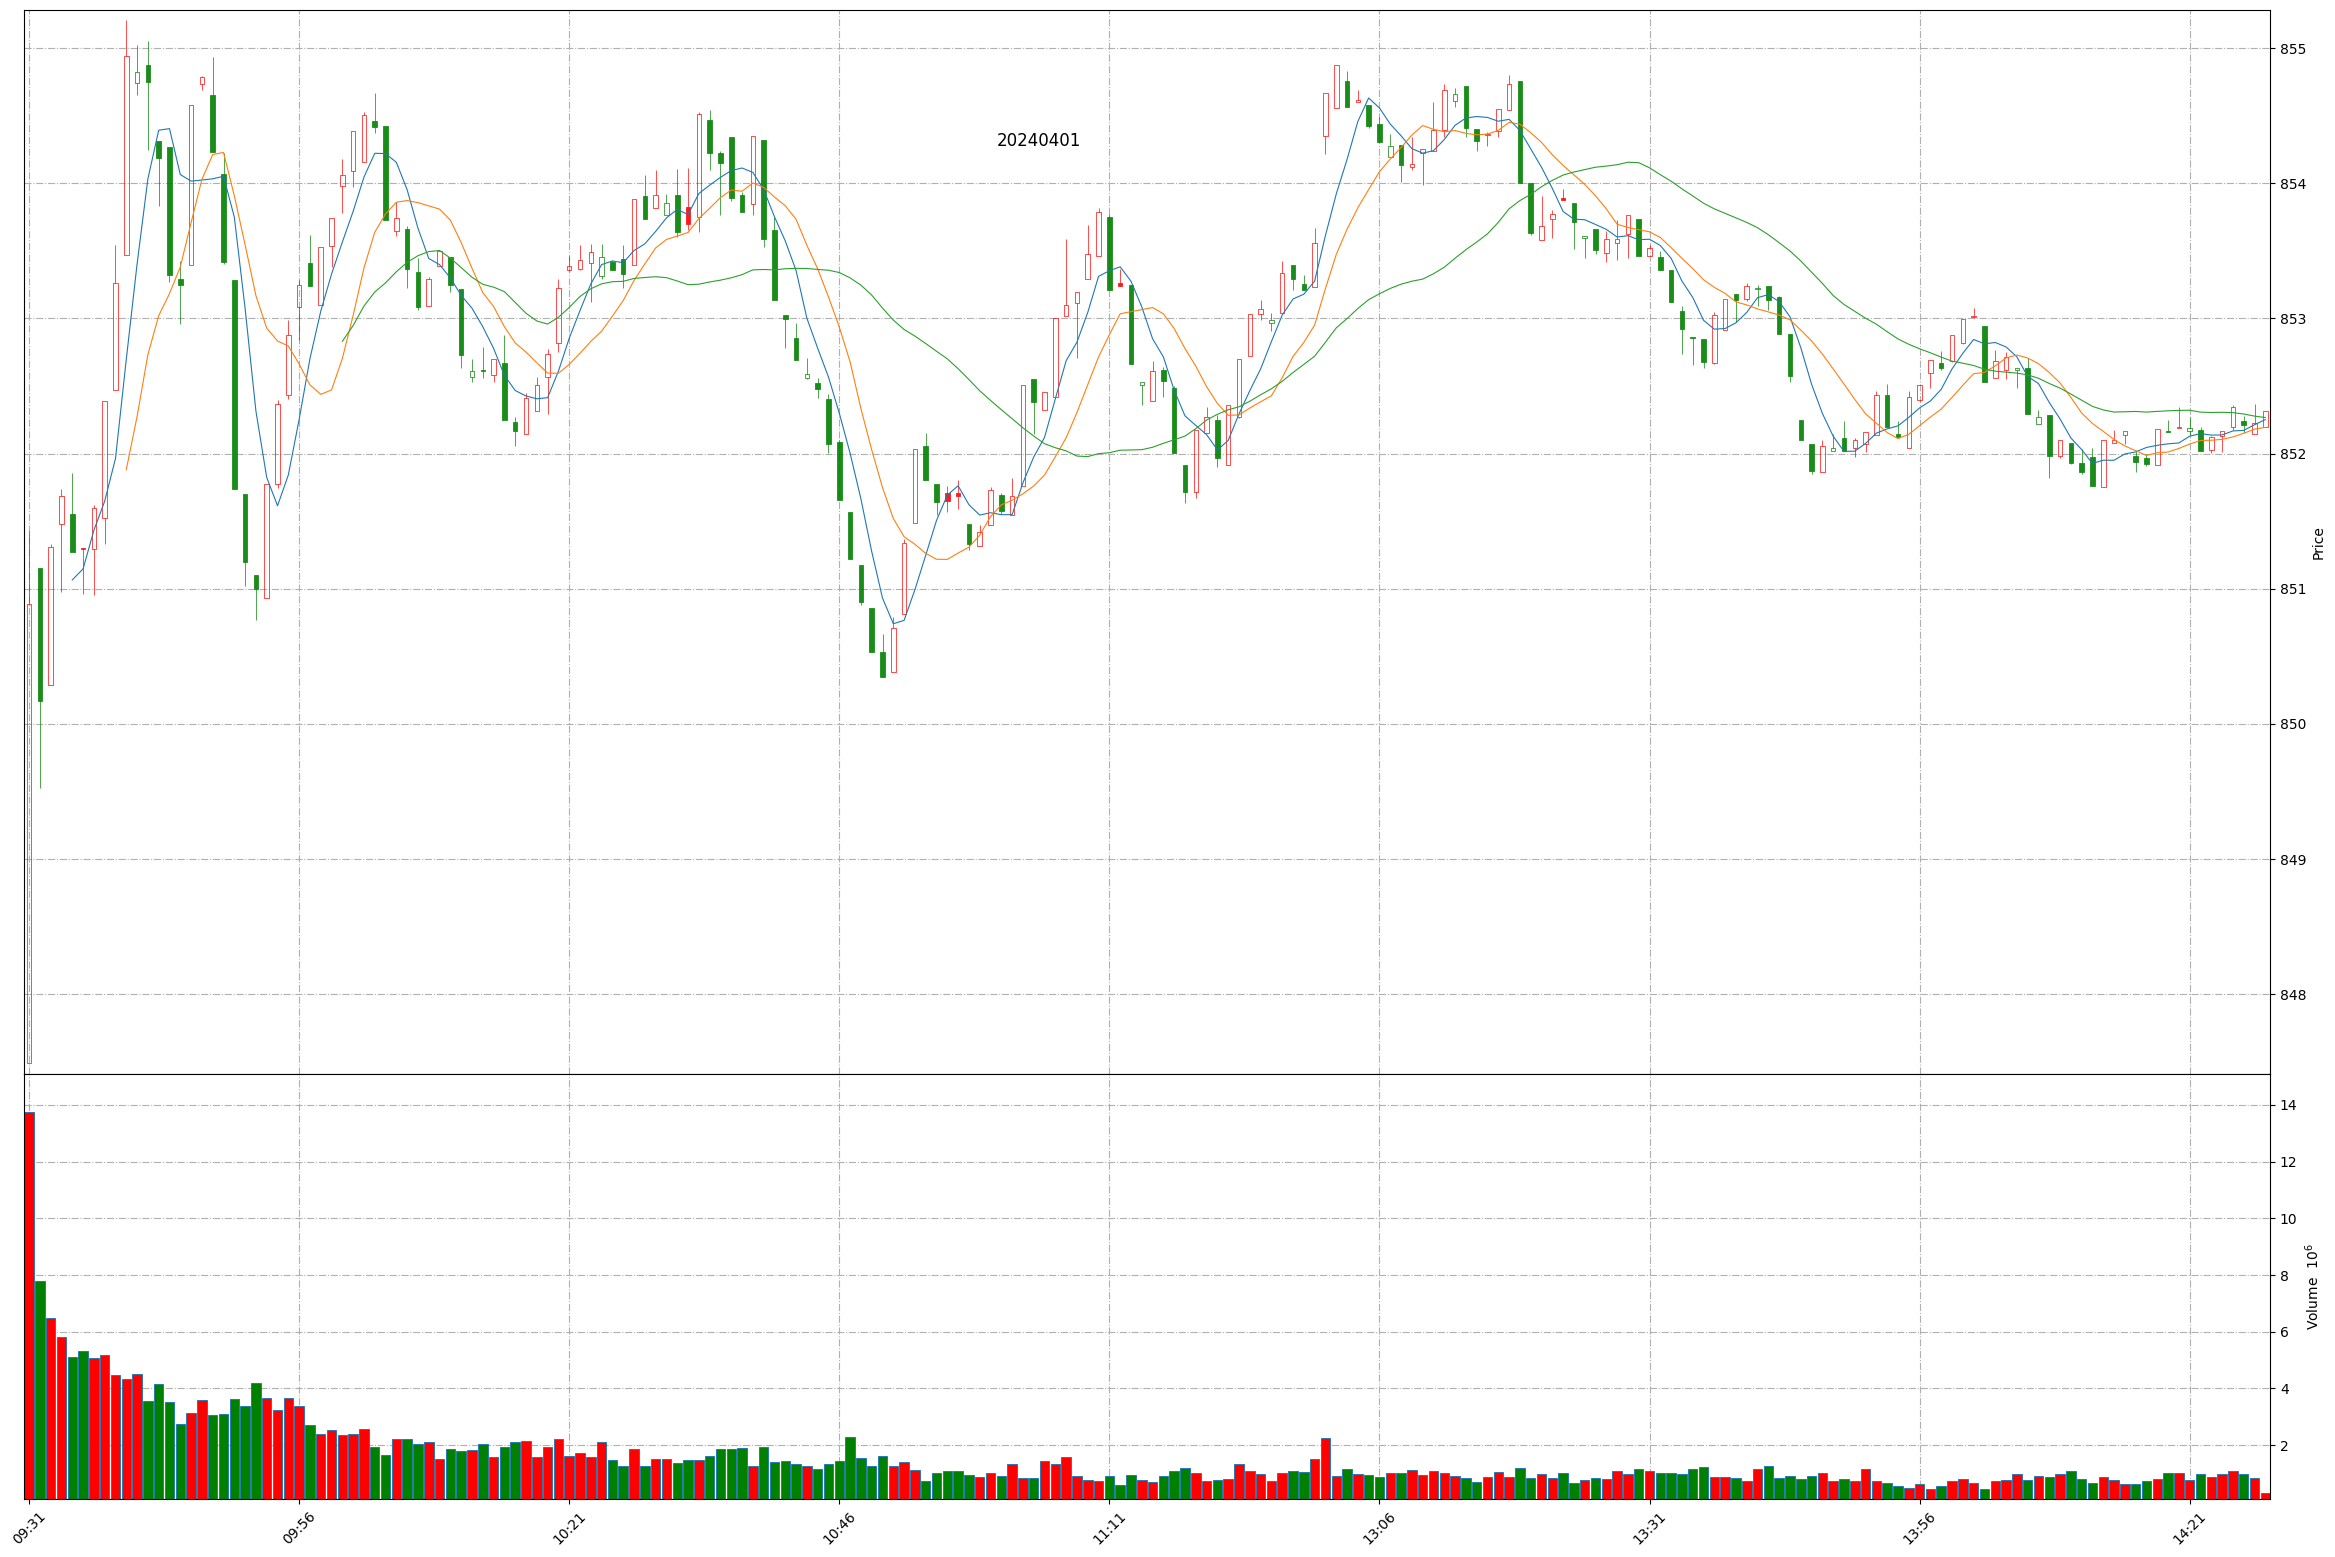
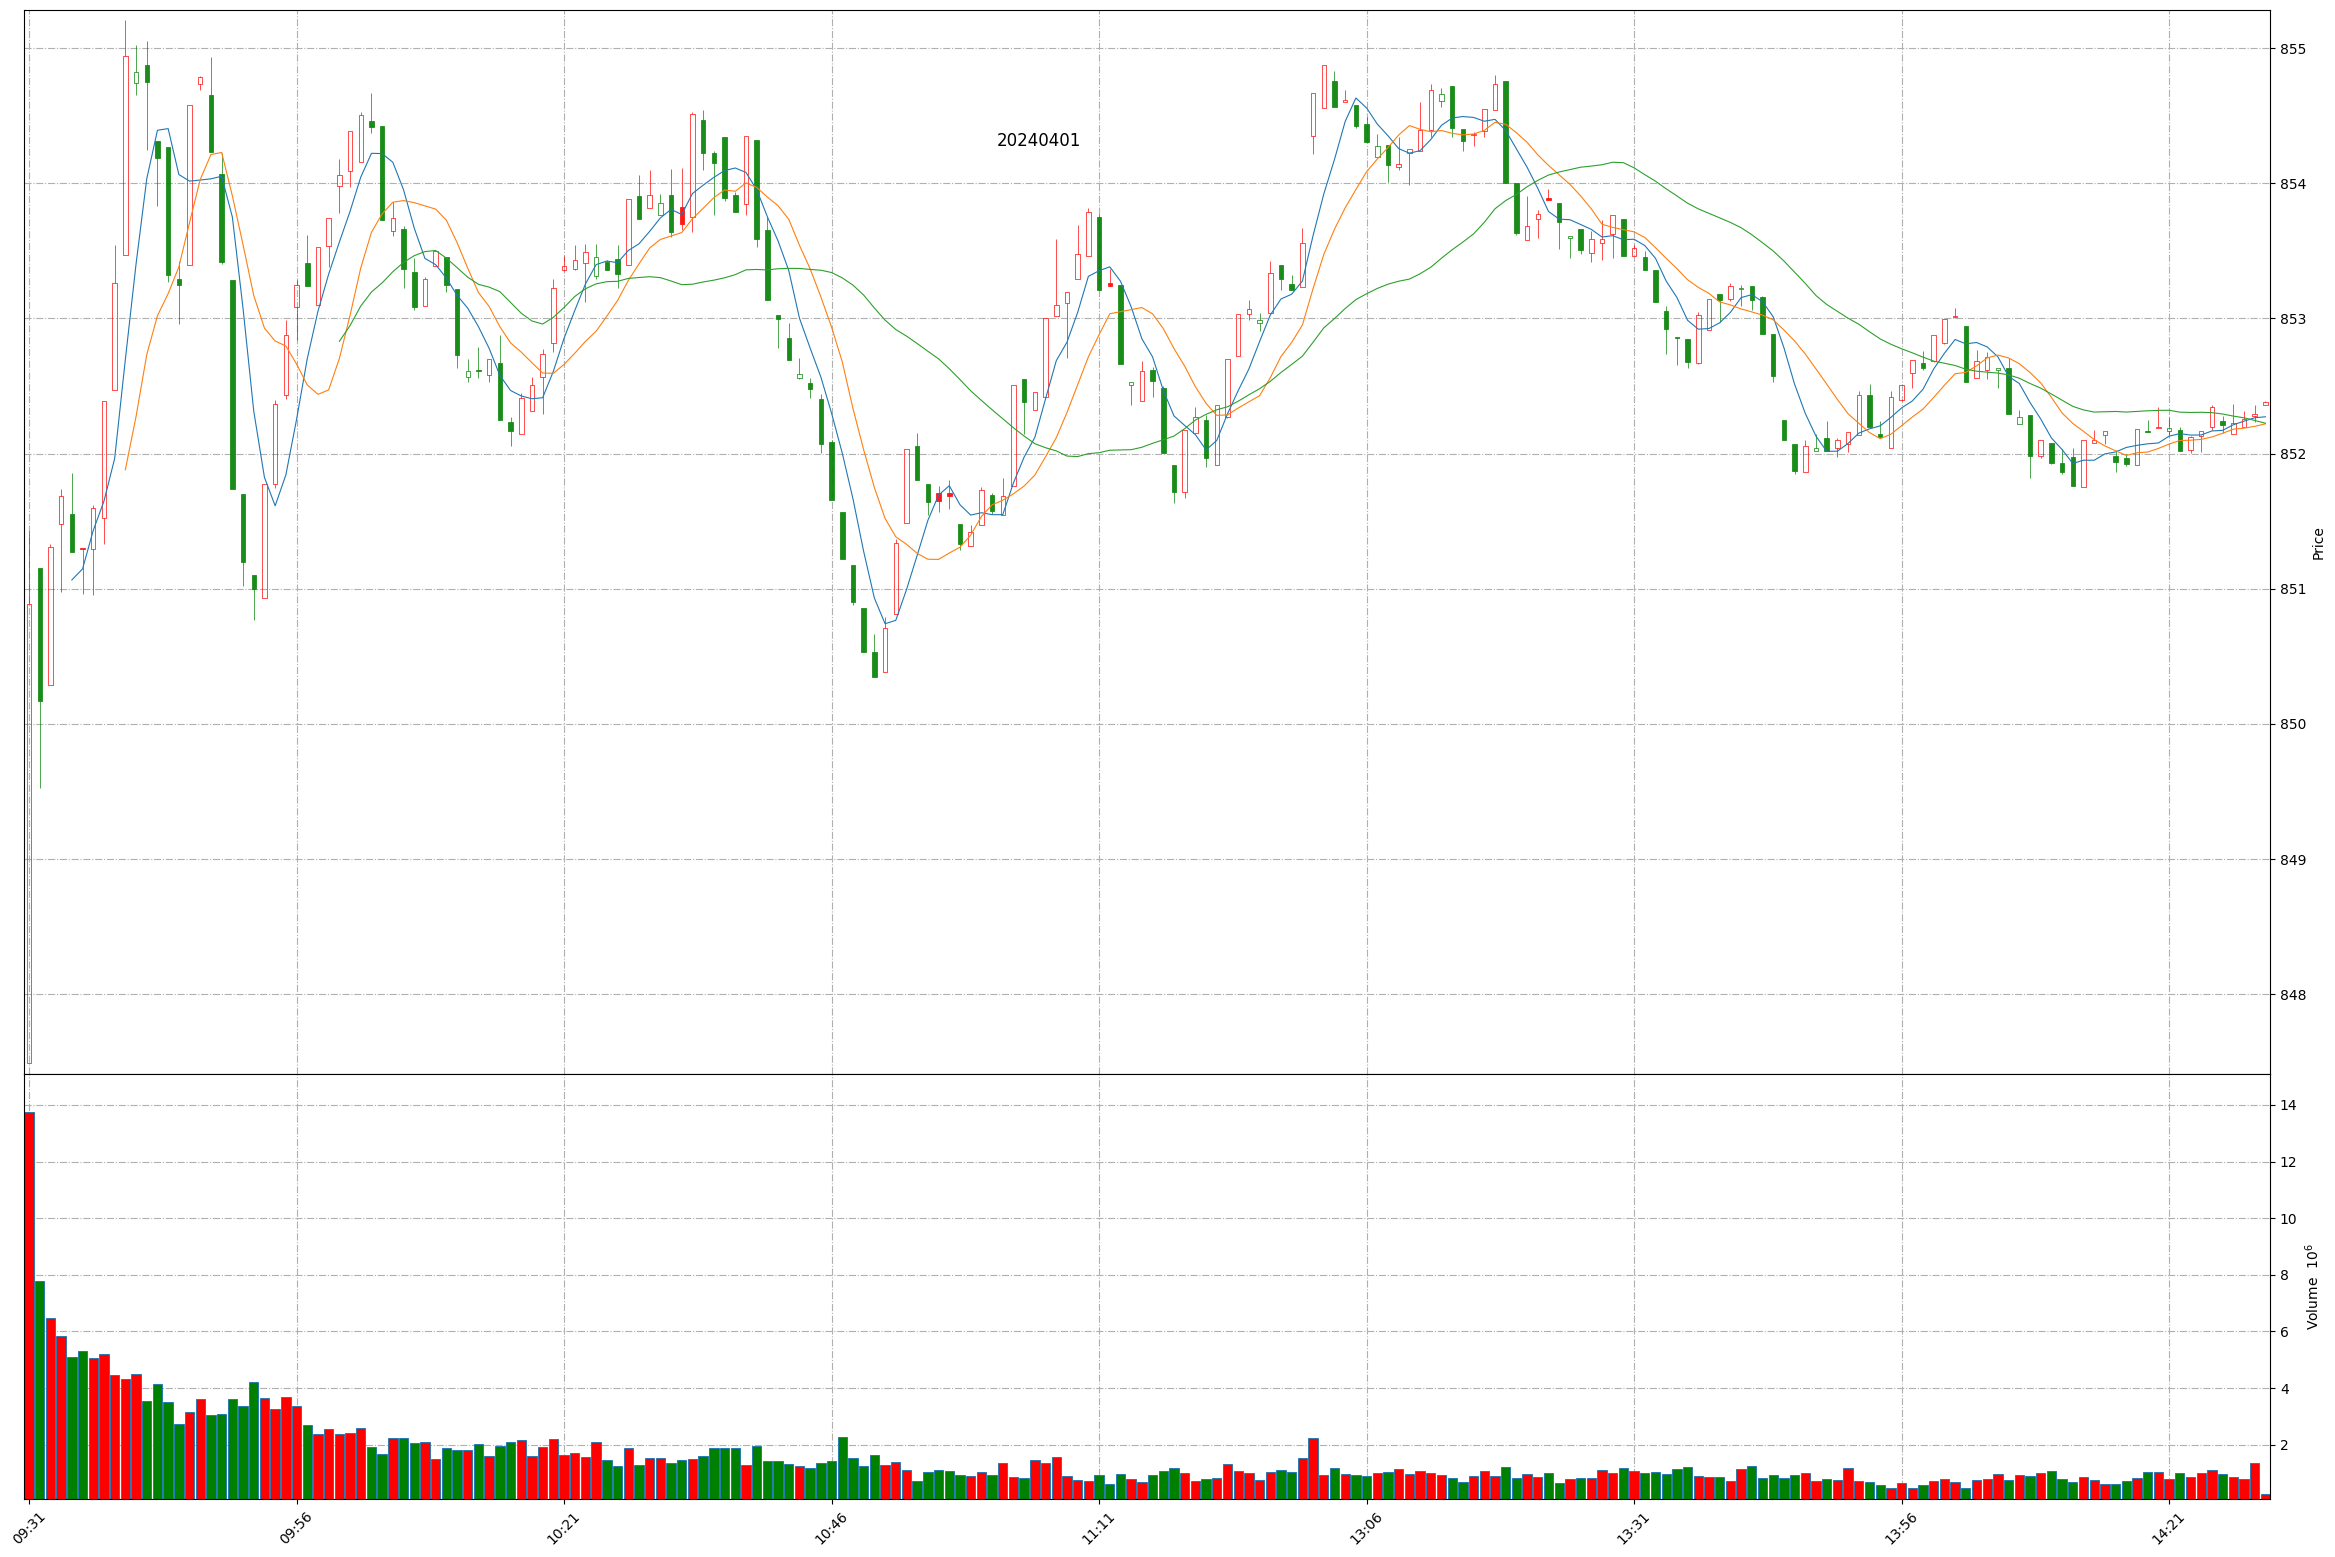
Github action update at 2024-04-01 14:29:21.

diff --git a/README.md b/README.md
@@ -1,11 +1,11 @@
 
 # Daily-A-share-market-quotes 每日 A 股指数（5min 更新）- 20240401
 
-### 上证指数 20240401 14:27
+### 上证指数 20240401 14:29
 ![](./fig/2024/4/20240401-sh000001.png)
 
-### 深证成指 20240401 14:27
+### 深证成指 20240401 14:29
 ![](./fig/2024/4/20240401-sz399001.png)
 
-### 北证50 20240401 14:27
+### 北证50 20240401 14:29
 ![](./fig/2024/4/20240401-bj899050.png)
